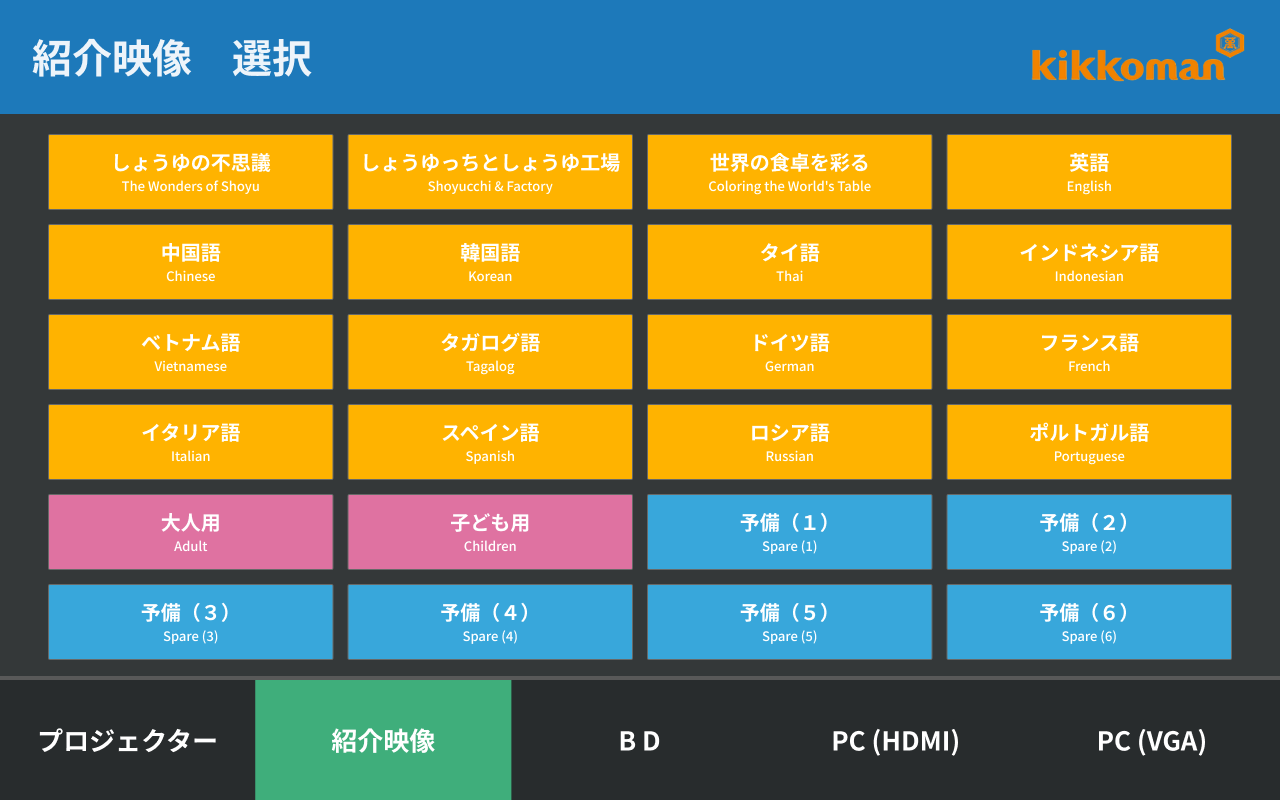
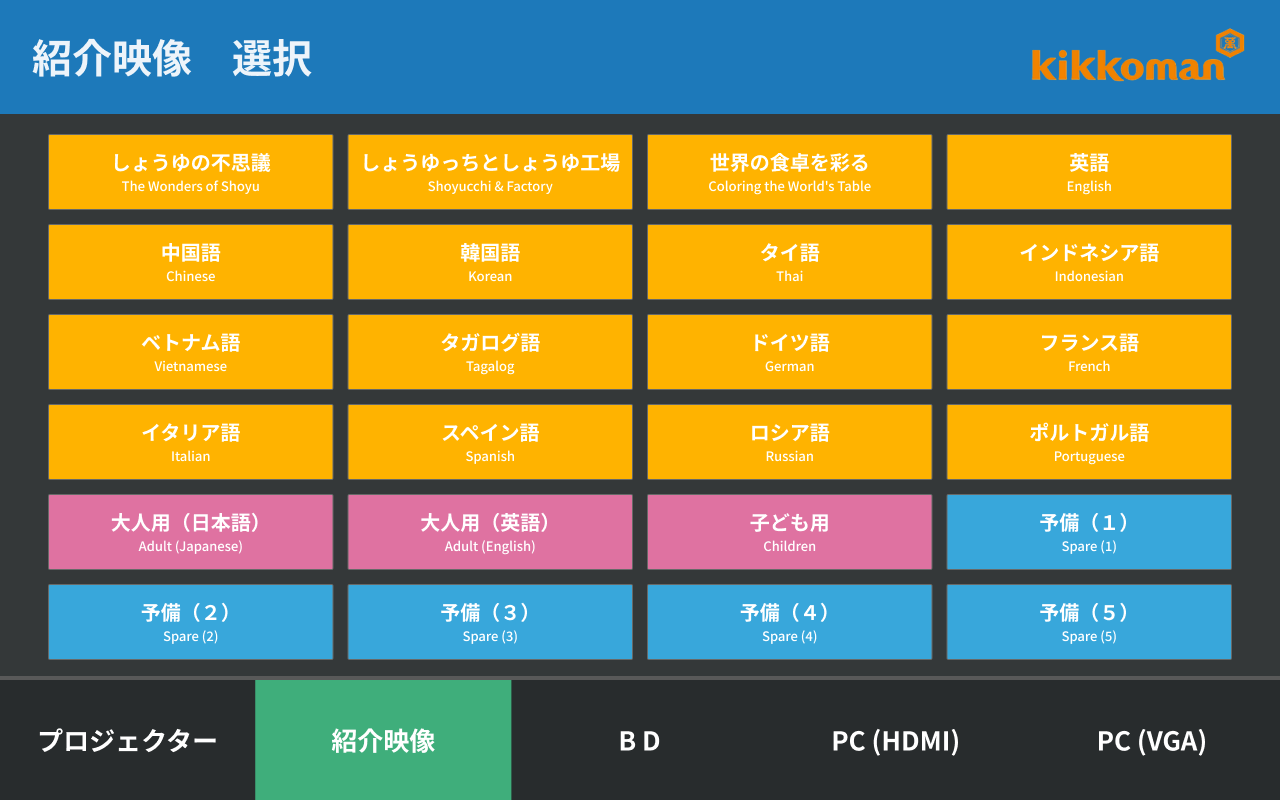
Added json file

diff --git a/app.js b/app.js
@@ -9,6 +9,7 @@
   var PAGE_TRANSITION_MS = 700;
   var UDP_RECEIVER_INITIAL_DELAY_MS = 1500;
   var UDP_RECEIVER_RETRY_MS = 5000;
+  var INTRO_VIDEO_CONFIG_TIMEOUT_MS = 3000;
   var udpConfig = window.BRIGHTSIGN_UDP_CONFIG || {};
   var projectorConfig = window.BRIGHTSIGN_PROJECTOR_CONFIG || {};
   var switcherConfig = window.BRIGHTSIGN_SWITCHER_CONFIG || {};
@@ -16,7 +17,7 @@
 
   var pages = {
     projector: { image: "assets/projector-control-panel.png", alt: "プロジェクター操作" },
-    intro: { image: "assets/intro-video-selection.png", alt: "紹介映像 選択" },
+    intro: { image: "assets/intro-video-selection.png?v=20260903-1", alt: "紹介映像 選択" },
     playback: { image: "assets/video-playback.png", alt: "紹介映像 再生中" },
     bdDisc: { image: "assets/bluray-disc-control.png", alt: "ブルーレイディスク 再生操作" },
     bdNavigation: { image: "assets/bluray-navigation.png", alt: "ブルーレイディスク メニュー操作" },
@@ -59,14 +60,14 @@
     { ja: "スペイン語", en: "Spanish" },
     { ja: "ロシア語", en: "Russian" },
     { ja: "ポルトガル語", en: "Portuguese" },
-    { ja: "大人用", en: "Adult" },
+    { ja: "大人用（日本語）", en: "Adult (Japanese)" },
+    { ja: "大人用（英語）", en: "Adult (English)" },
     { ja: "子ども用", en: "Children" },
     { ja: "予備（1）", en: "Spare (1)", spare: true },
     { ja: "予備（2）", en: "Spare (2)", spare: true },
     { ja: "予備（3）", en: "Spare (3)", spare: true },
     { ja: "予備（4）", en: "Spare (4)", spare: true },
-    { ja: "予備（5）", en: "Spare (5)", spare: true },
-    { ja: "予備（6）", en: "Spare (6)", spare: true }
+    { ja: "予備（5）", en: "Spare (5)", spare: true }
   ];
 
   var stage = document.getElementById("stage");
@@ -75,6 +76,7 @@
   var currentPage = "projector";
   var selectedPlaybackImage = "assets/video-playback-01.png";
   var selectedPlaybackLabel = introButtons[0].ja;
+  var selectedPlaybackIndex = 0;
   var isVideoPlaying = false;
   var projectorPowerState = "off";
   var projectorAcceptsMute = false;
@@ -104,6 +106,91 @@
   var bdLastCommandTime = 0;
   var activeActionButton = null;
   var activeActionPointerId = null;
+
+  function applyIntroVideoConfig(config) {
+    var configuredButtons = new Array(introButtons.length);
+    var seenIds = {};
+    var videos = config && config.videos;
+
+    if (!Array.isArray(videos) || videos.length !== introButtons.length) {
+      throw new Error("intro-videos.json must contain exactly " + introButtons.length + " videos.");
+    }
+
+    for (var index = 0; index < videos.length; index += 1) {
+      var video = videos[index];
+      var id = Number(video && video.id);
+      var japaneseName = video && typeof video.ja === "string" ? video.ja.trim() : "";
+      var englishName = video && typeof video.en === "string" ? video.en.trim() : "";
+
+      if (!Number.isInteger(id) || id < 1 || introButtons.length < id) {
+        throw new Error("Each intro video needs an id from 1 to " + introButtons.length + ".");
+      }
+      if (seenIds[id]) {
+        throw new Error("Duplicate intro-video id: " + id + ".");
+      }
+      if (!japaneseName || !englishName) {
+        throw new Error("Intro-video id " + id + " needs both ja and en names.");
+      }
+
+      seenIds[id] = true;
+      configuredButtons[id - 1] = {
+        ja: japaneseName,
+        en: englishName,
+        spare: introButtons[id - 1].spare
+      };
+    }
+
+    introButtons = configuredButtons;
+    selectedPlaybackLabel = introButtons[selectedPlaybackIndex].ja;
+  }
+
+  function loadIntroVideoConfig(callback) {
+    var completed = false;
+    var request;
+
+    function finish() {
+      if (completed) return;
+      completed = true;
+      callback();
+    }
+
+    if (typeof XMLHttpRequest !== "function") {
+      console.warn("intro-videos.json could not be loaded; built-in button names will be used.");
+      finish();
+      return;
+    }
+
+    try {
+      request = new XMLHttpRequest();
+      request.open("GET", "intro-videos.json?v=" + Date.now(), true);
+      request.timeout = INTRO_VIDEO_CONFIG_TIMEOUT_MS;
+      request.onreadystatechange = function () {
+        if (request.readyState !== 4 || completed) return;
+        try {
+          if (request.status !== 0 && request.status !== 200) {
+            throw new Error("HTTP status " + request.status);
+          }
+          applyIntroVideoConfig(JSON.parse(request.responseText));
+          console.log("Introduction-video names loaded from intro-videos.json.");
+        } catch (error) {
+          console.error("Invalid intro-videos.json; built-in button names will be used: " + error.message);
+        }
+        finish();
+      };
+      request.onerror = function () {
+        console.error("intro-videos.json could not be loaded; built-in button names will be used.");
+        finish();
+      };
+      request.ontimeout = function () {
+        console.error("intro-videos.json load timed out; built-in button names will be used.");
+        finish();
+      };
+      request.send();
+    } catch (error) {
+      console.error("intro-videos.json could not be loaded; built-in button names will be used: " + error.message);
+      finish();
+    }
+  }
 
   function closeBdSerialPort() {
     window.clearTimeout(bdAckTimeoutTimer);
@@ -1138,7 +1225,16 @@
     button.style.top = options.y + "px";
     button.style.width = options.width + "px";
     button.style.height = options.height + "px";
-    button.innerHTML = options.content;
+    if (Array.isArray(options.contentLines)) {
+      for (var contentIndex = 0; contentIndex < options.contentLines.length; contentIndex += 1) {
+        var contentLine = document.createElement("span");
+        contentLine.className = options.contentLines[contentIndex].className;
+        contentLine.textContent = options.contentLines[contentIndex].text;
+        button.appendChild(contentLine);
+      }
+    } else {
+      button.innerHTML = options.content;
+    }
     button.disabled = Boolean(options.disabled);
 
     if (!button.disabled && button.className.indexOf("nav-button") === -1) {
@@ -1353,8 +1449,12 @@
           y: rows[row],
           width: widths[column],
           height: 76,
-          content: '<span class="ja">' + item.ja + '</span><span class="en">' + item.en + "</span>",
+          contentLines: [
+            { className: "ja", text: item.ja },
+            { className: "en", text: item.en }
+          ],
           onClick: function () {
+            selectedPlaybackIndex = itemIndex;
             selectedPlaybackImage = getPlaybackImagePath(itemIndex);
             selectedPlaybackLabel = item.ja;
             isVideoPlaying = true;
@@ -1370,6 +1470,17 @@
   }
 
   function addPlaybackControls() {
+    var playbackLabel = document.createElement("div");
+    var playbackTitle = document.createElement("span");
+    var playbackStatus = document.createElement("span");
+    playbackLabel.className = "playback-label";
+    playbackLabel.setAttribute("aria-hidden", "true");
+    playbackTitle.textContent = selectedPlaybackLabel;
+    playbackStatus.textContent = "再生中";
+    playbackLabel.appendChild(playbackTitle);
+    playbackLabel.appendChild(playbackStatus);
+    buttonLayer.appendChild(playbackLabel);
+
     addButton({
       label: "再生中止",
       className: "playback-stop",
@@ -1525,6 +1636,9 @@
   };
   resizeStage();
   showPage("projector");
-  window.setTimeout(preloadPageImages, 0);
+  loadIntroVideoConfig(function () {
+    preloadPageImages();
+    if (currentPage === "intro" || currentPage === "playback") renderPage(currentPage);
+  });
   window.setTimeout(startUdpReceiver, UDP_RECEIVER_INITIAL_DELAY_MS);
 }());

diff --git a/index.html b/index.html
@@ -5,12 +5,12 @@
     <meta name="viewport" content="width=device-width, initial-scale=1, maximum-scale=1, user-scalable=no">
     <meta name="theme-color" content="#303435">
     <title>シアター操作パネル — BrightSign Test</title>
-    <link rel="stylesheet" href="styles.css?v=20260831-4">
+    <link rel="stylesheet" href="styles.css?v=20260903-1">
     <script src="udp-config.js?v=20260825-7"></script>
     <script src="projector-config.js?v=20260831-1"></script>
     <script src="switcher-config.js?v=20260825-6"></script>
     <script src="bluray-config.js?v=20260901-1"></script>
-    <script src="app.js?v=20260901-3" defer></script>
+    <script src="app.js?v=20260903-3" defer></script>
   </head>
   <body>
     <main id="stage" aria-label="シアター操作パネル・テストアプリ">

diff --git a/styles.css b/styles.css
@@ -165,6 +165,25 @@ button {
   font-weight: 700;
 }
 
+.playback-label {
+  position: absolute;
+  top: 320px;
+  left: 400px;
+  display: flex;
+  width: 480px;
+  height: 170px;
+  align-items: center;
+  justify-content: center;
+  flex-direction: column;
+  gap: 8px;
+  background: #343839;
+  color: #fff;
+  font-size: 42px;
+  font-weight: 700;
+  line-height: 1.25;
+  pointer-events: none;
+}
+
 .bd-playback-button {
   flex-direction: column;
   gap: 22px;

diff --git a/README.md b/README.md
@@ -22,7 +22,9 @@ Action buttons use a continuous multi-stage blend from gray through a pale white
 
 Action controls use first-touch-wins handling. If two action buttons are touched at the same time, only the first touch is accepted; the second is ignored and cannot leave its button stuck red. This prevents conflicting video selections and overlapping device commands.
 
-The 24 introduction-selection buttons map in row order to `assets/video-playback-01.png` through `assets/video-playback-24.png`. This includes the six enabled `予備` buttons, mapped to panels 19–24.
+The 24 introduction-selection buttons map in row order to `assets/video-playback-01.png` through `assets/video-playback-24.png`. Panels 17–19 are the Japanese adult, English adult, and children selections. The five enabled `予備` buttons map to panels 20–24. The playback title is rendered from the selected button label so it stays synchronized with this mapping.
+
+To rename an introduction-video button, edit its `ja` and `en` values in `intro-videos.json`, then reload the panel. Keep all 24 unique `id` values; the ID controls the button position, `PLAY_XX` command number, and numbered playback panel. Invalid or unavailable JSON is reported in the console and the panel safely uses its built-in names. BrightSign local-site deployments can load the JSON directly. For desktop Chrome or Edge testing, serve this folder from localhost instead of opening `index.html` as a `file://` URL, because desktop browsers may block local JSON requests.
 
 ## Introduction-video UDP command test
 
